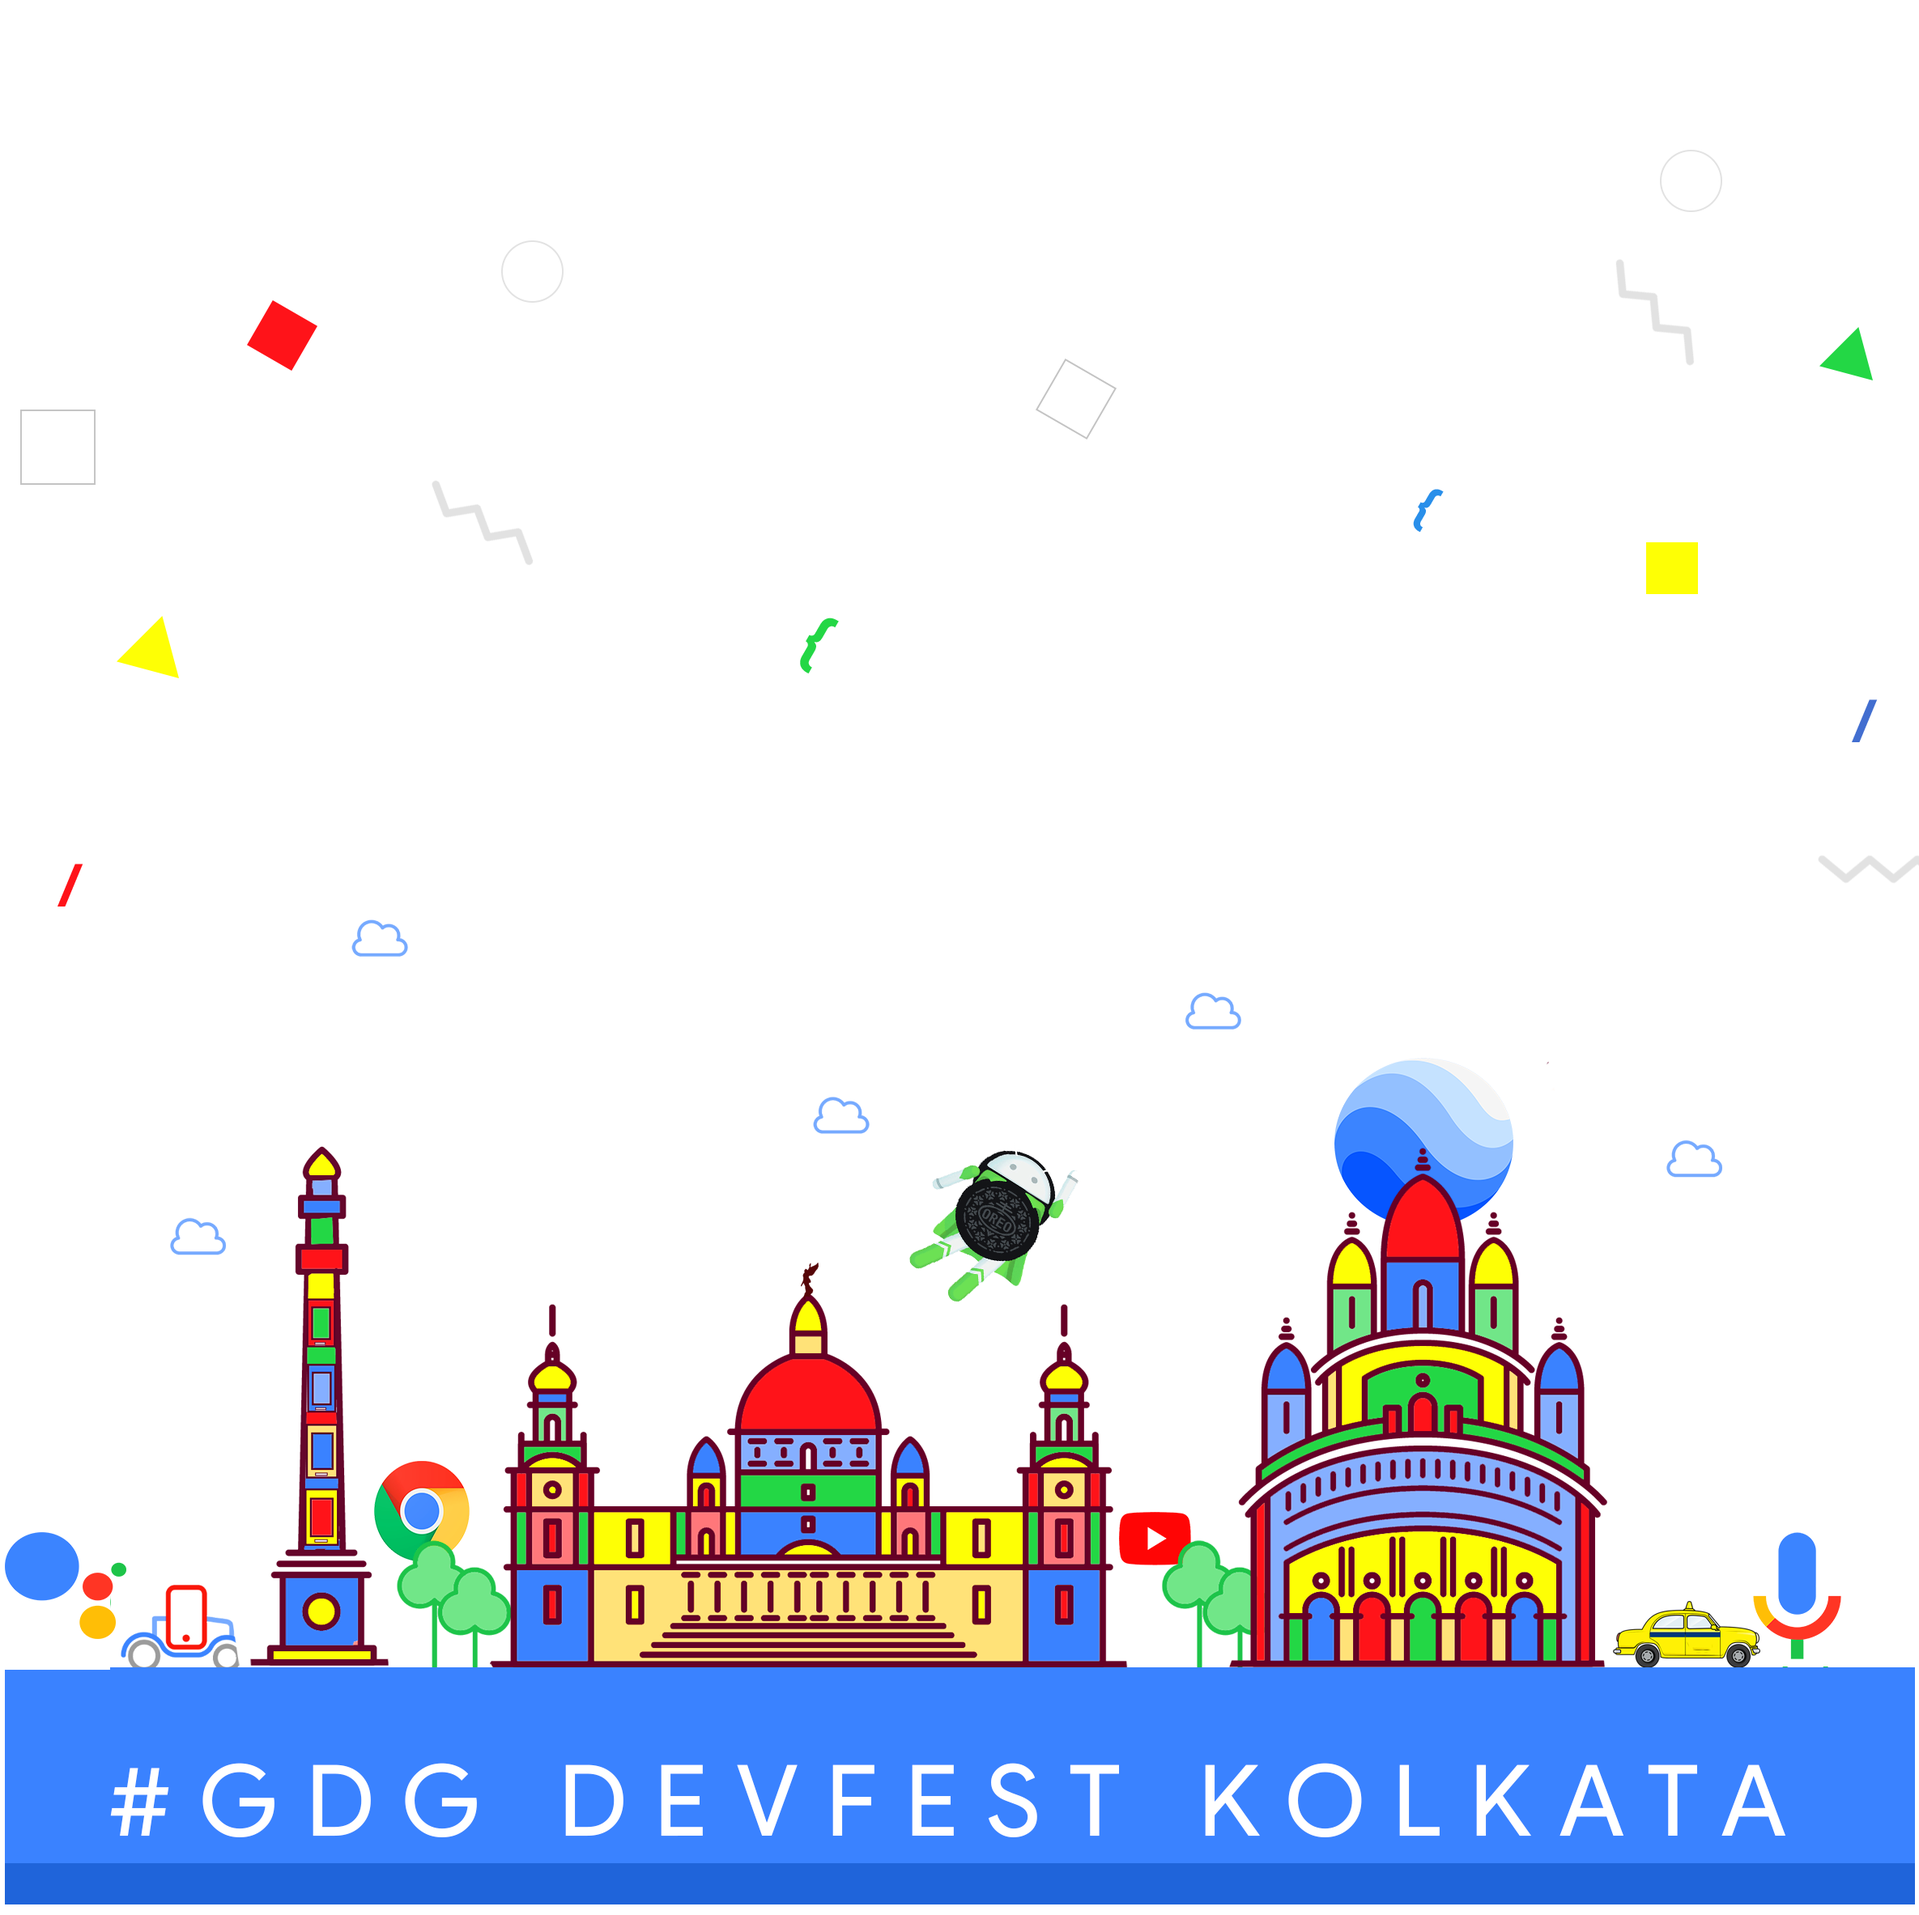
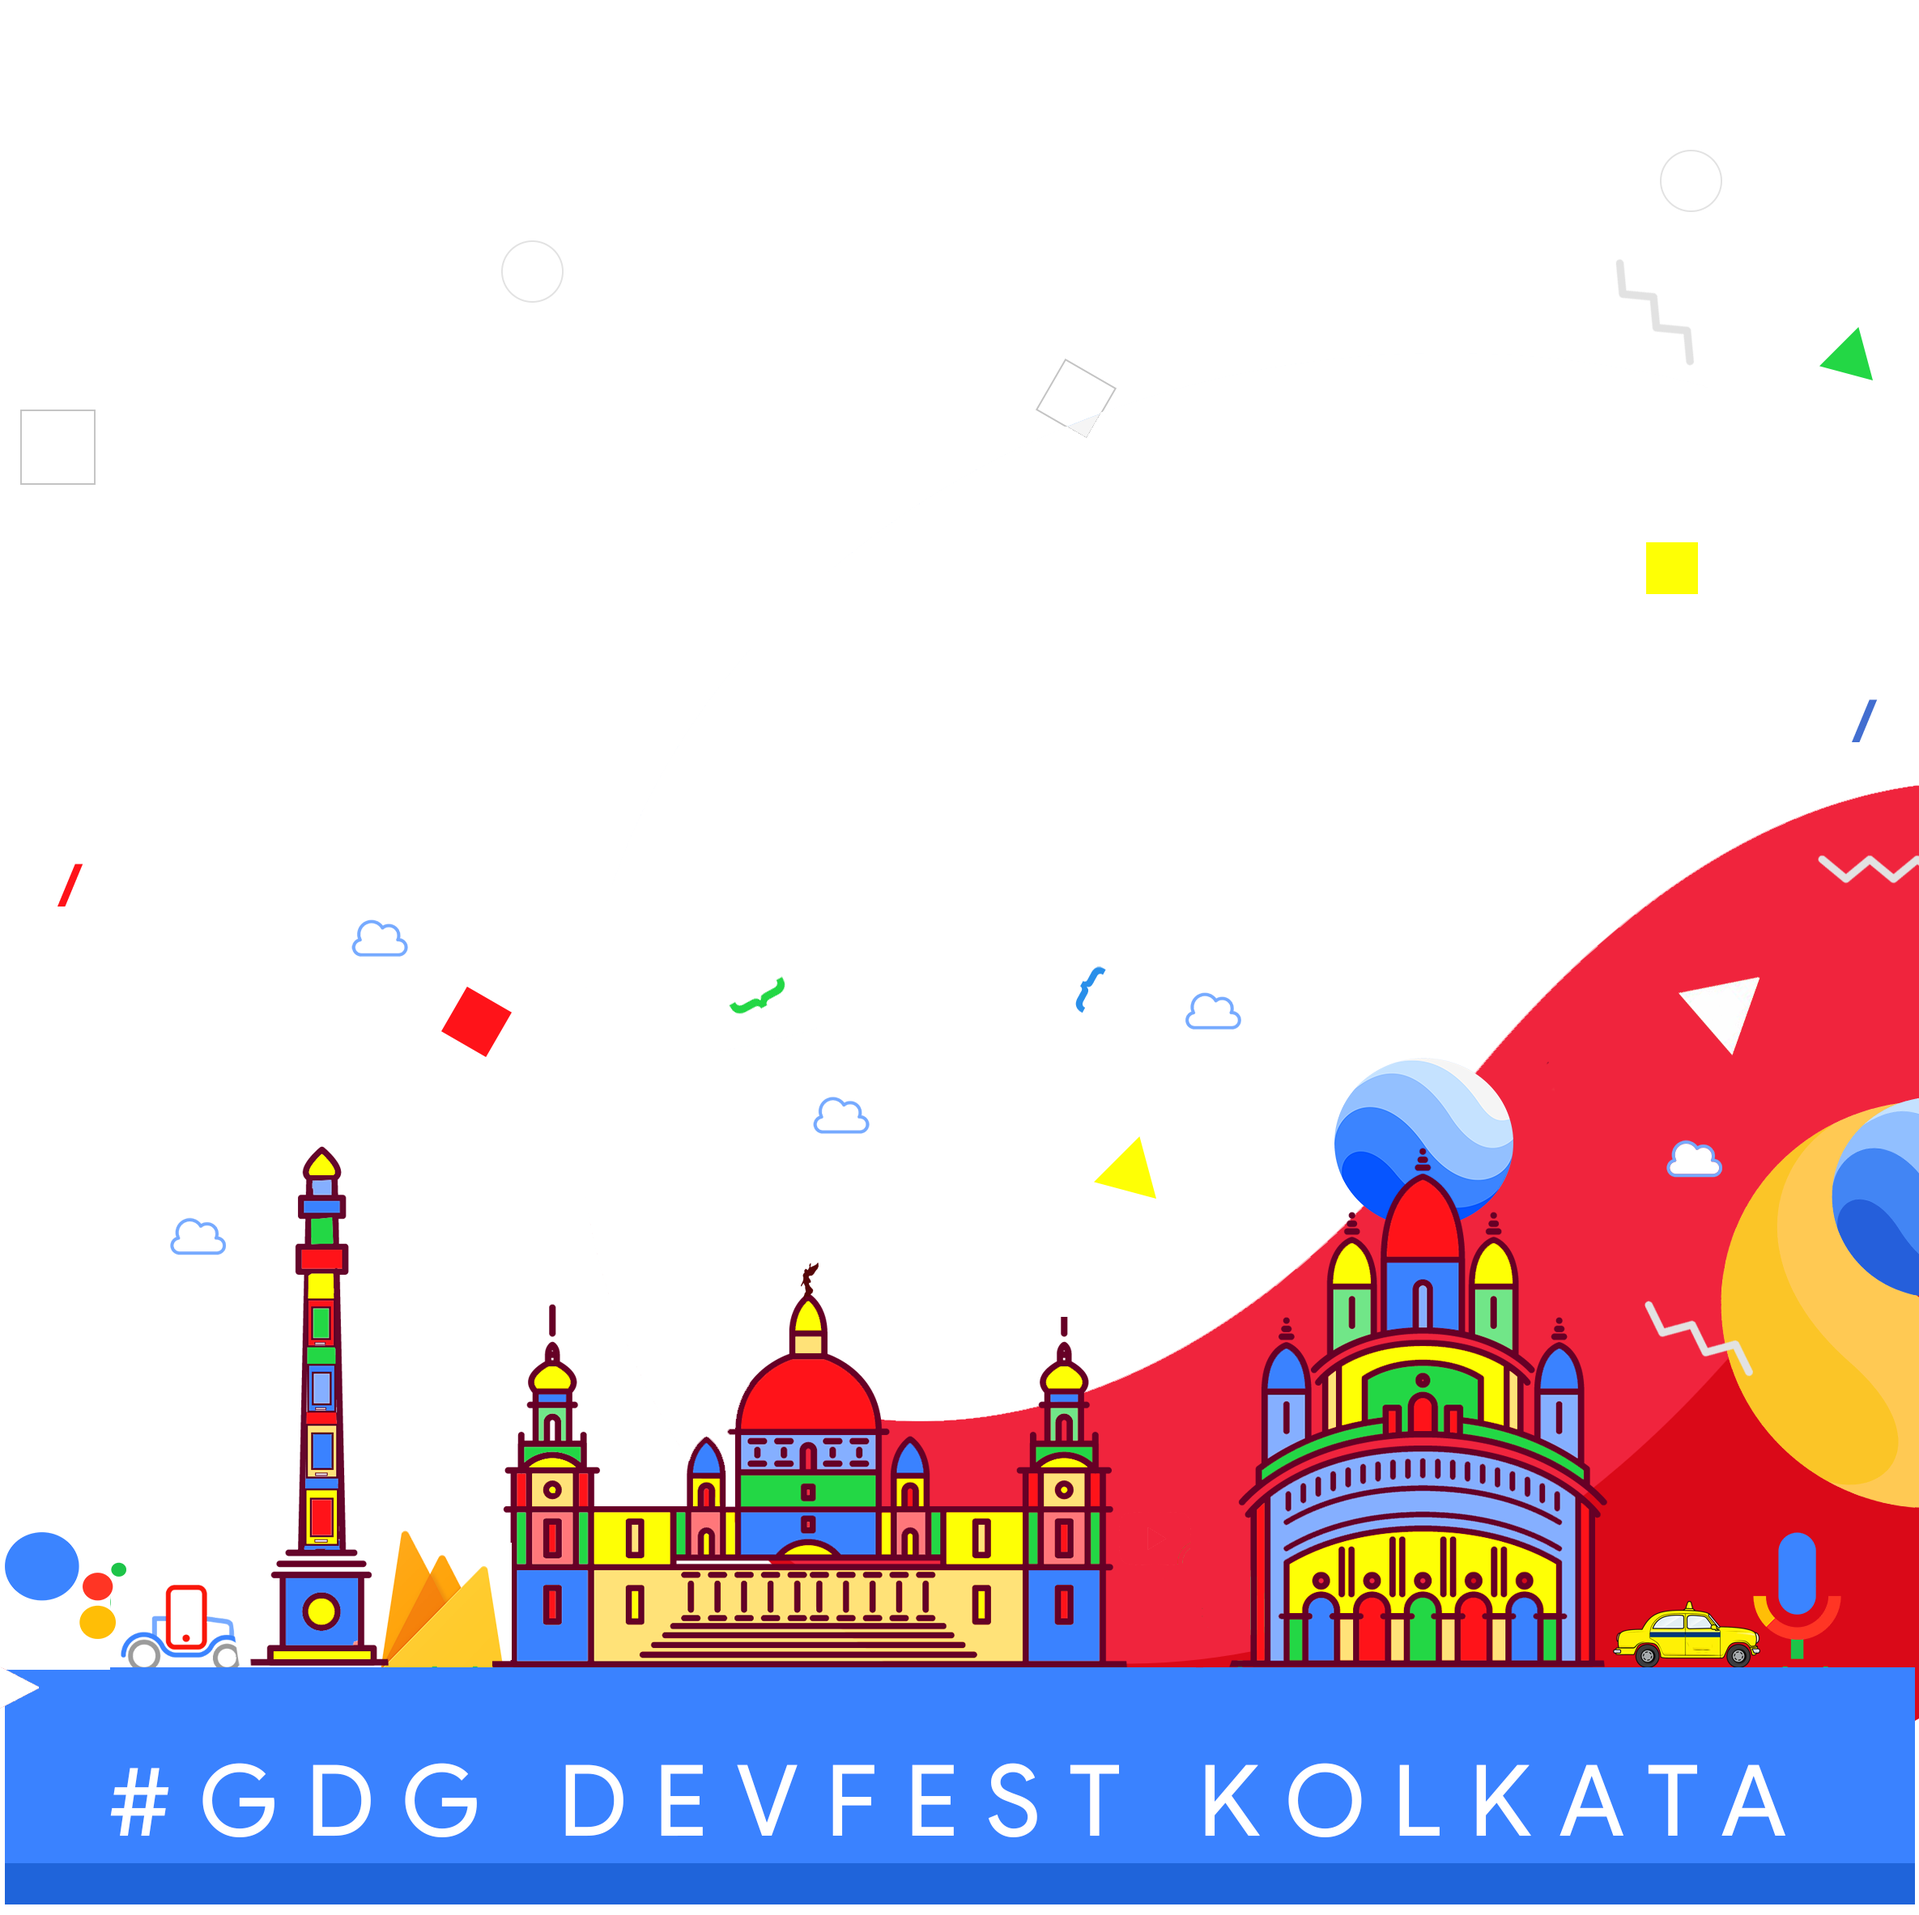
Graphic Updates

diff --git a/index.html b/index.html
@@ -89,12 +89,12 @@
                 <div class="col-md-4" >&nbsp;</div>
                 <div class="col-md-4" id="hometop-container">
                     <h1 class="event_title">DevFest 2018</h1>
-                    <h4 class="event_details">Bishwa Bangla Convention Center, Kolkata</h4>
+                    <h4 class="event_details">University of Engineering and Management Kolkata</h4>
                     <h4 class="event_details">3rd November</h4>
                     <a target="_blank" id="buttons" class="btn btn-primary" href=" https://www.eventbrite.com/e/devfest-kolkata-2018-devfestkol-tickets-50524204255">Add the event</a>
                     <br/>
                 </div>
-                <div class="col-md-8" style=" background-image: url('assets/img/kit/_banner.png'); background-position: bottom; background-size: 100% auto;">&nbsp;</div>
+                <div class="col-md-8" style=" background-image: url('assets/img/kit/__banner.png'); background-position: bottom; background-size: 100% auto;">&nbsp;</div>
             </div>
         </div>
     </div>
@@ -187,7 +187,7 @@
                 <div class="row mt-3 wow fadeIn" data-wow-delay="0.2s">
                         <div class="col-lg-6" style="text-align:left;"><h3 class="title" id="internship_fair"><b>GDG Event highlights</b></h3><p>&nbsp;</p></div>
                         
-                        <section class='img-fluid' id="photos"></section></div>
+                        
                 
                 
                 <!--First row-->
